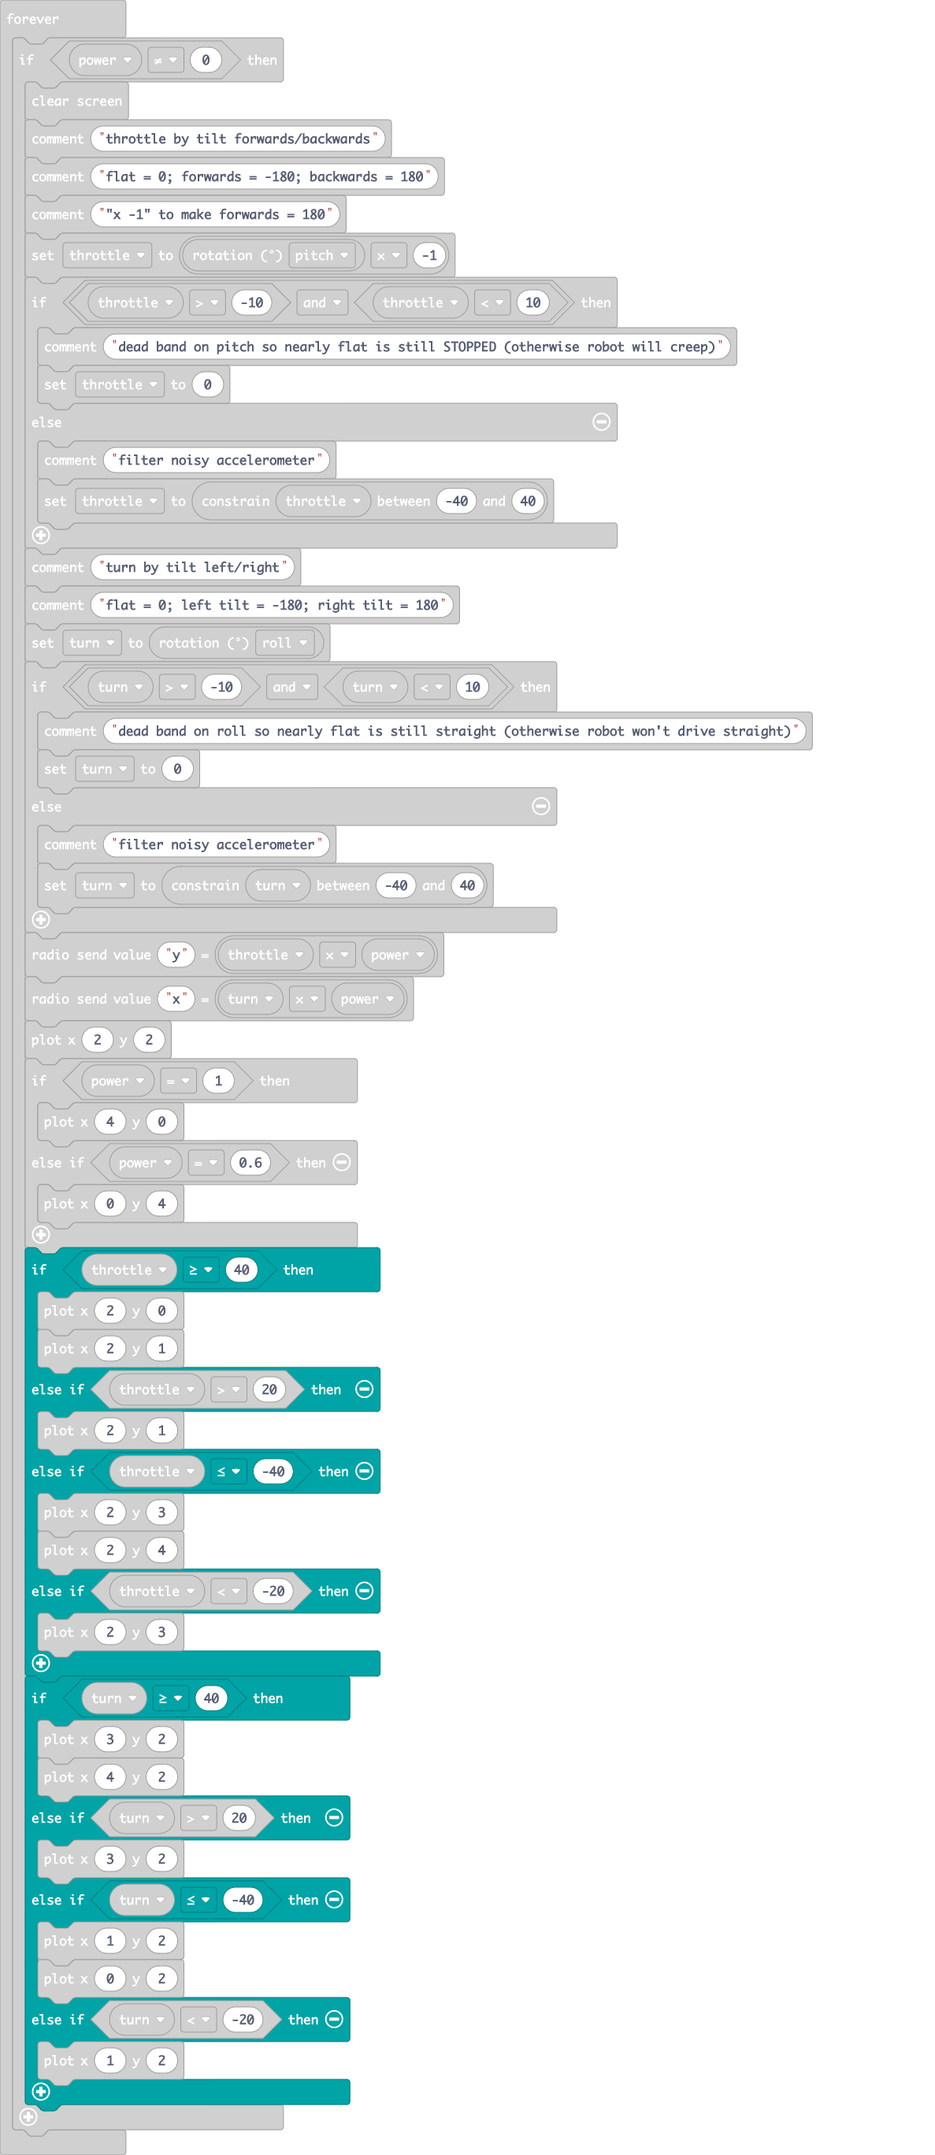
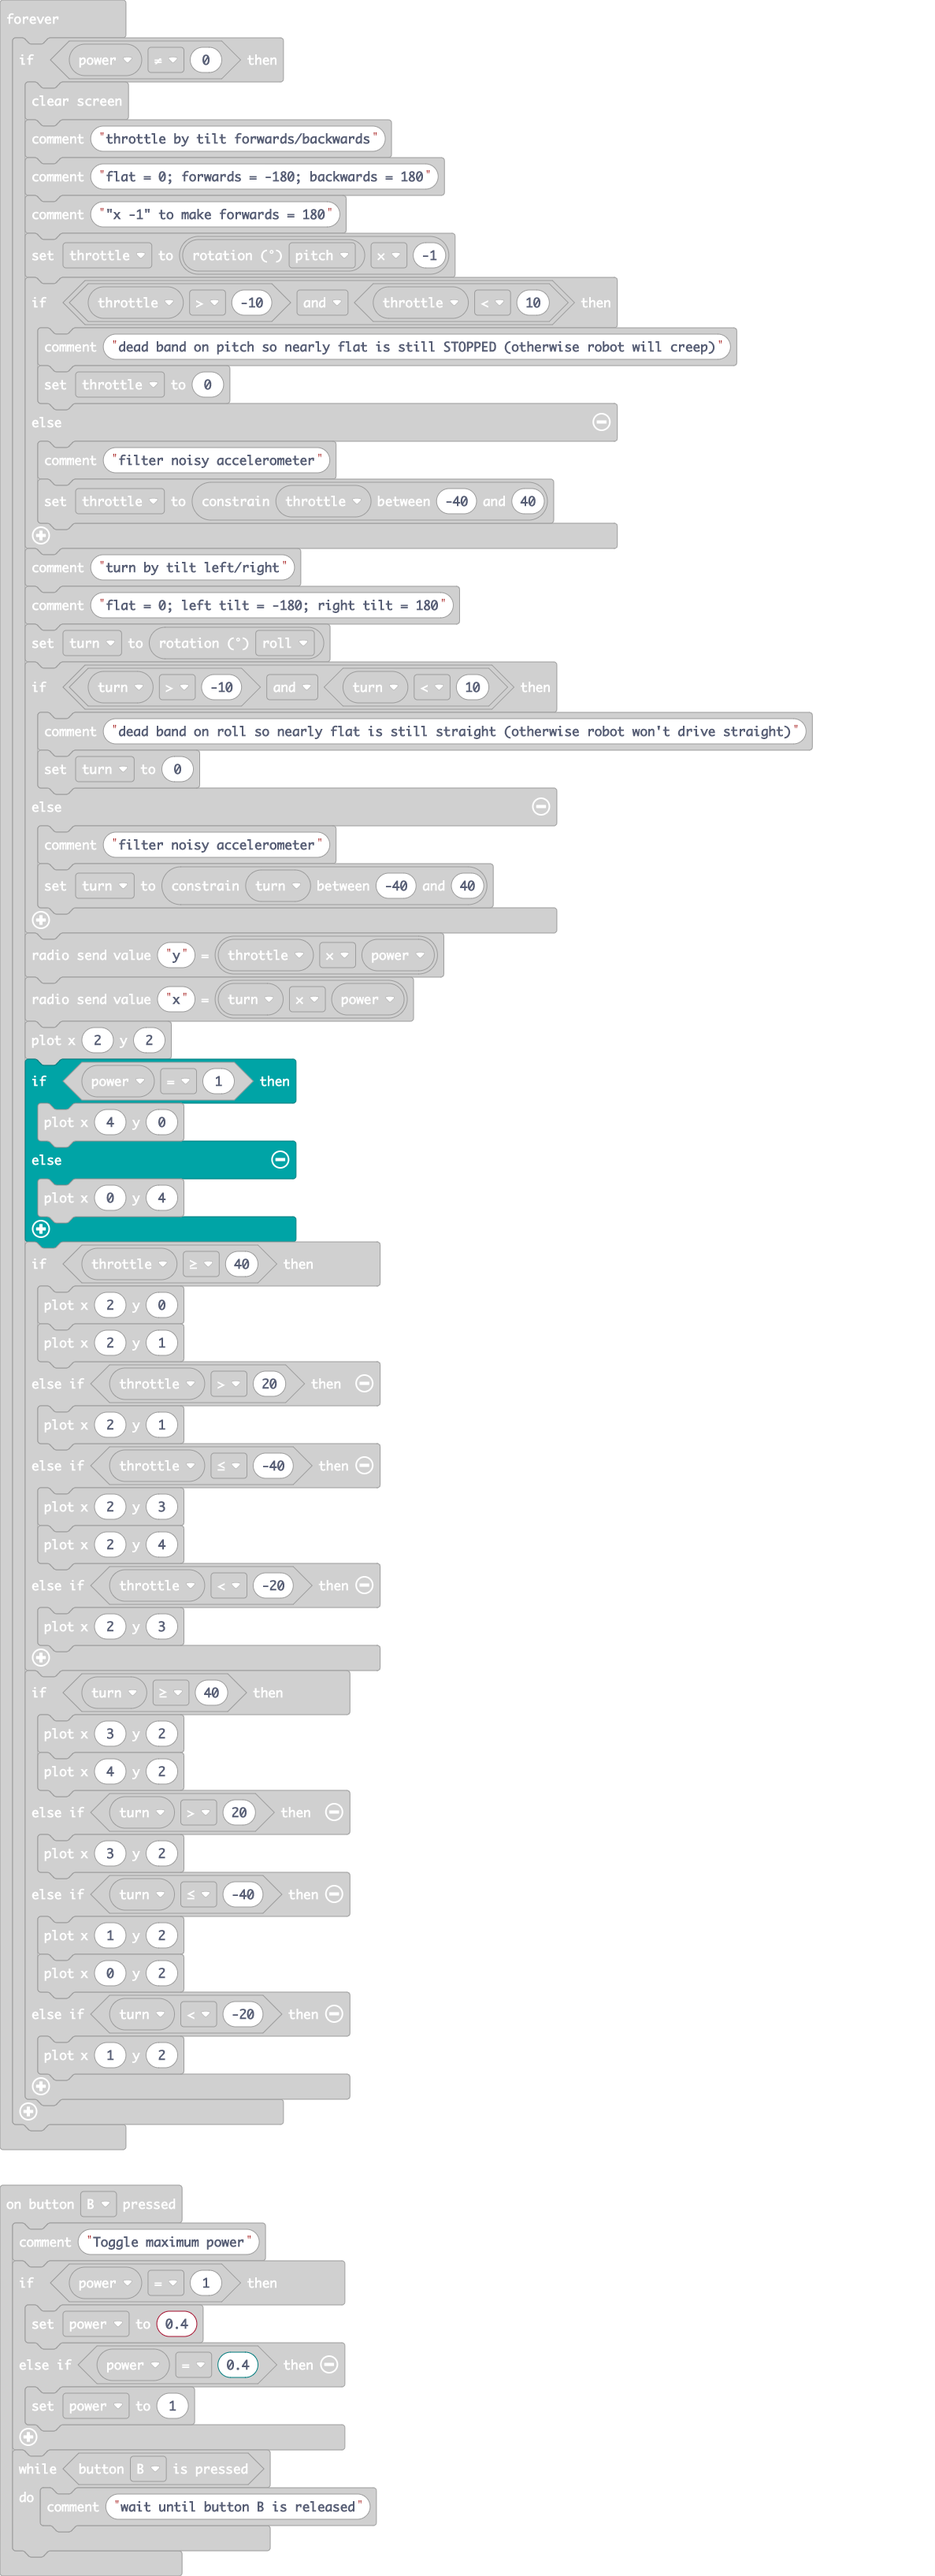
Update main.blocks, main.ts

Changed region(s): [[0.0, 0.0, 0.8728, 1.0]]

diff --git a/main.ts b/main.ts
@@ -20,8 +20,8 @@ input.onButtonPressed(Button.AB, function () {
 input.onButtonPressed(Button.B, function () {
     comment.comment("Toggle maximum power")
     if (power == 1) {
-        power = 0.5
-    } else if (power == 0.5) {
+        power = 0.4
+    } else if (power == 0.4) {
         power = 1
     }
     while (input.buttonIsPressed(Button.B)) {
@@ -70,7 +70,7 @@ basic.forever(function () {
         led.plot(2, 2)
         if (power == 1) {
             led.plot(4, 0)
-        } else if (power == 0.6) {
+        } else {
             led.plot(0, 4)
         }
         if (throttle >= 40) {
